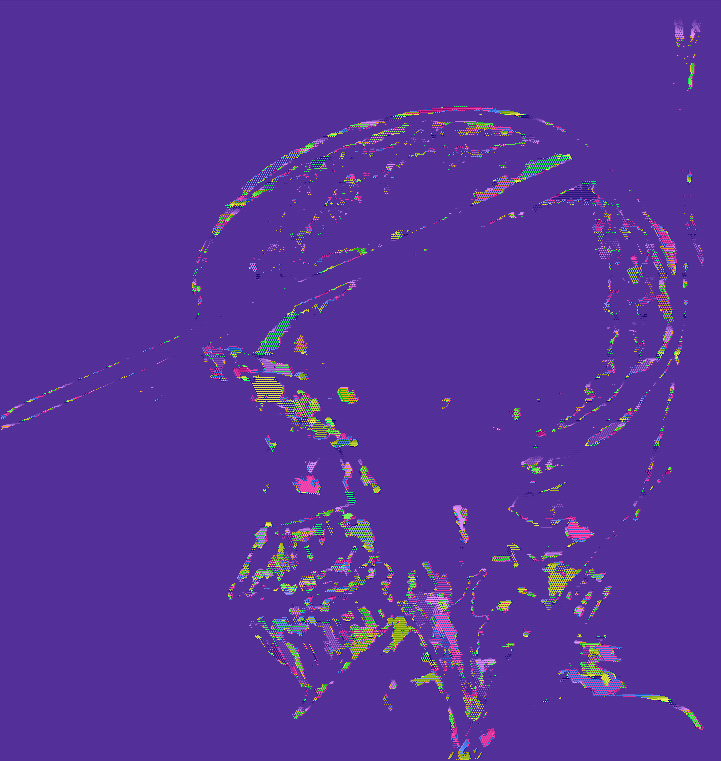
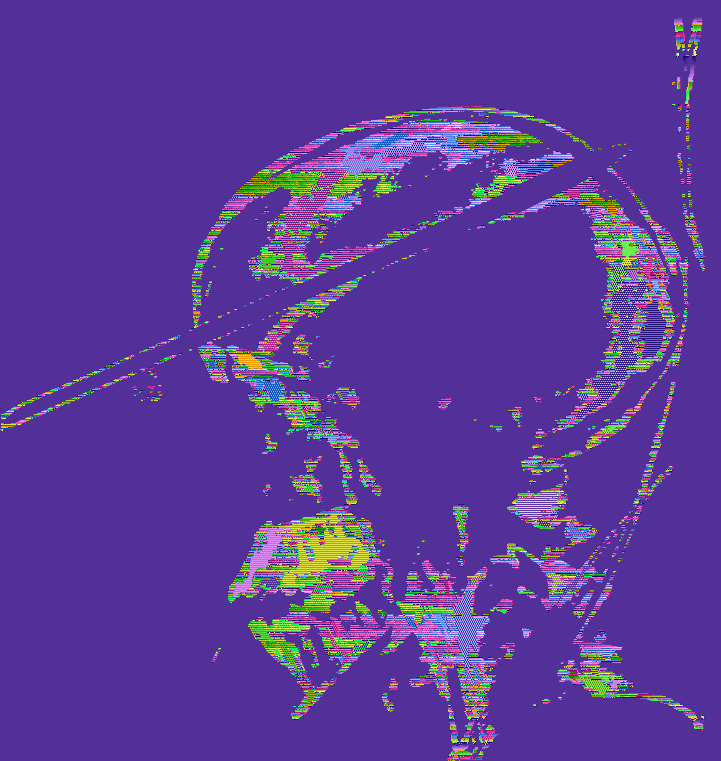
GAUSS 5

diff --git a/1course.c b/1course.c
@@ -94,18 +94,18 @@ void DFS(int i,int j,int w,int h,unsigned char* image, int* components,int adj_n
 {
     components[w*i + j] = adj_num;
     if (exists(i, j-2, w, h))
-        if ((fabs(image[w*i + j] - image[w*i + (j-2)]) <= 20) && !(components[w*i + (j-2)]))
+        if ((fabs(image[w*i + j] - image[w*i + (j-2)]) <= 5) && !(components[w*i + (j-2)]))
             DFS(i, j-2, w, h, image, components, adj_num);
 
  
 
     if (exists(i-2, j+1, w, h))
-        if ((fabs(image[w*i + j] - image[w*(i-2) + (j+1)]) <= 20) && !(components[w*(i-2) + (j+1)]))
+        if ((fabs(image[w*i + j] - image[w*(i-2) + (j+1)]) <= 5) && !(components[w*(i-2) + (j+1)]))
             DFS(i-2, j+1, w, h, image, components, adj_num);
 
 
     if (exists(i+2, j+1, w, h))
-        if ((fabs(image[w*i + j] - image[w*(i+2) + (j+1)]) <= 20) && !(components[w*(i+2) + (j+1)]))
+        if ((fabs(image[w*i + j] - image[w*(i+2) + (j+1)]) <= 5) && !(components[w*(i+2) + (j+1)]))
             DFS(i+2, j+1, w, h, image, components, adj_num);
 
 
